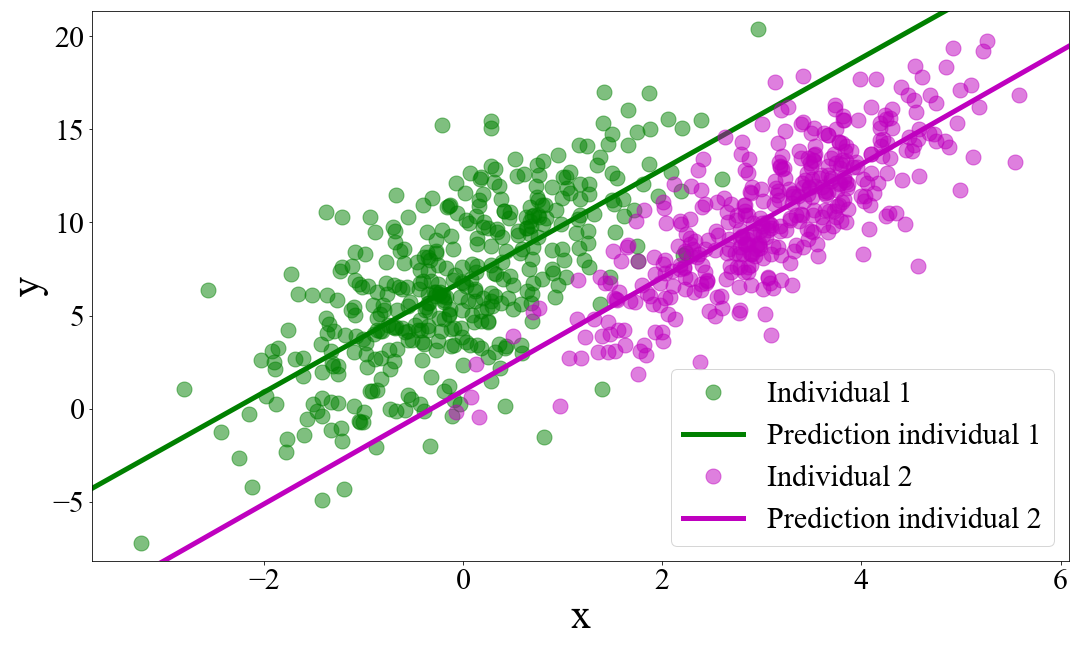
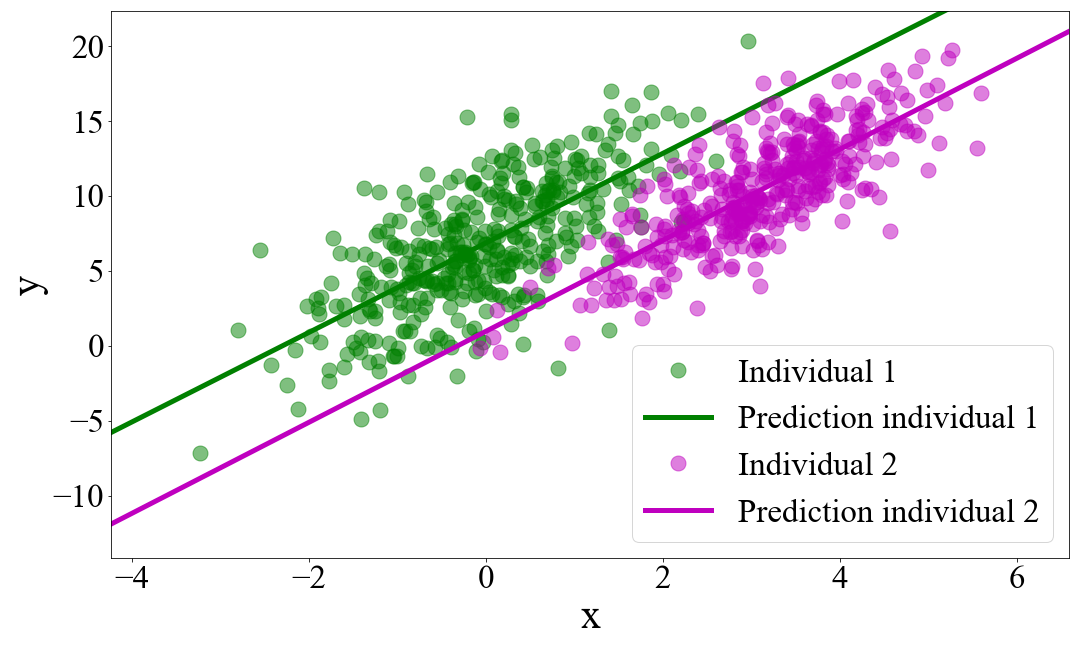
Plots for figure 8 updated

diff --git a/LMMPlotSyntheticData.py b/LMMPlotSyntheticData.py
@@ -50,10 +50,10 @@ coef_2 = model_2.params
 
 
 # Min and max values for plotting
-min_val_x = min(min(x_1),min(x_2))-0.5
-max_val_x = max(max(x_1),max(x_2))+0.5
-min_val_y = min(min(y_1),min(y_2))-1
-max_val_y = max(max(y_1),max(y_2))+1
+min_val_x = min(min(x_1),min(x_2))-1
+max_val_x = max(max(x_1),max(x_2))+1
+min_val_y = min(min(y_1),min(y_2))-7
+max_val_y = max(max(y_1),max(y_2))+2
 # x-values for plotting prediction lines
 x = np.linspace(min_val_x, max_val_x, 1000)
 
@@ -69,9 +69,9 @@ plt.plot(x, coef_2[0] + coef_2[1]*x, label='Prediction individual 2', color='m',
 # Plot settings
 plt.xlabel('x', fontname="Times New Roman", fontsize=40)
 plt.ylabel('y', fontname="Times New Roman", fontsize=40)
-plt.legend(fontsize=30)
-plt.xticks(fontsize=30, family='Times New Roman')
-plt.yticks(fontsize=30, family='Times New Roman')
+plt.legend(fontsize=33)
+plt.xticks(fontsize=33, family='Times New Roman')
+plt.yticks(fontsize=33, family='Times New Roman')
 plt.xlim(min_val_x, max_val_x)
 plt.ylim(min_val_y, max_val_y)
 plt.tight_layout()
@@ -97,9 +97,9 @@ plt.plot(x, coef_combined[0] + coef_combined[1]*x, label='Prediction line for co
 # Figure settings
 plt.xlabel('x', fontname="Times New Roman", fontsize=40)
 plt.ylabel('y', fontname="Times New Roman", fontsize=40)
-plt.legend(fontsize=30)
-plt.xticks(fontsize=30, family='Times New Roman')
-plt.yticks(fontsize=30, family='Times New Roman')
+plt.legend(fontsize=33)
+plt.xticks(fontsize=33, family='Times New Roman')
+plt.yticks(fontsize=33, family='Times New Roman')
 plt.xlim(min_val_x, max_val_x)
 plt.ylim(min_val_y, max_val_y)
 plt.tight_layout()
